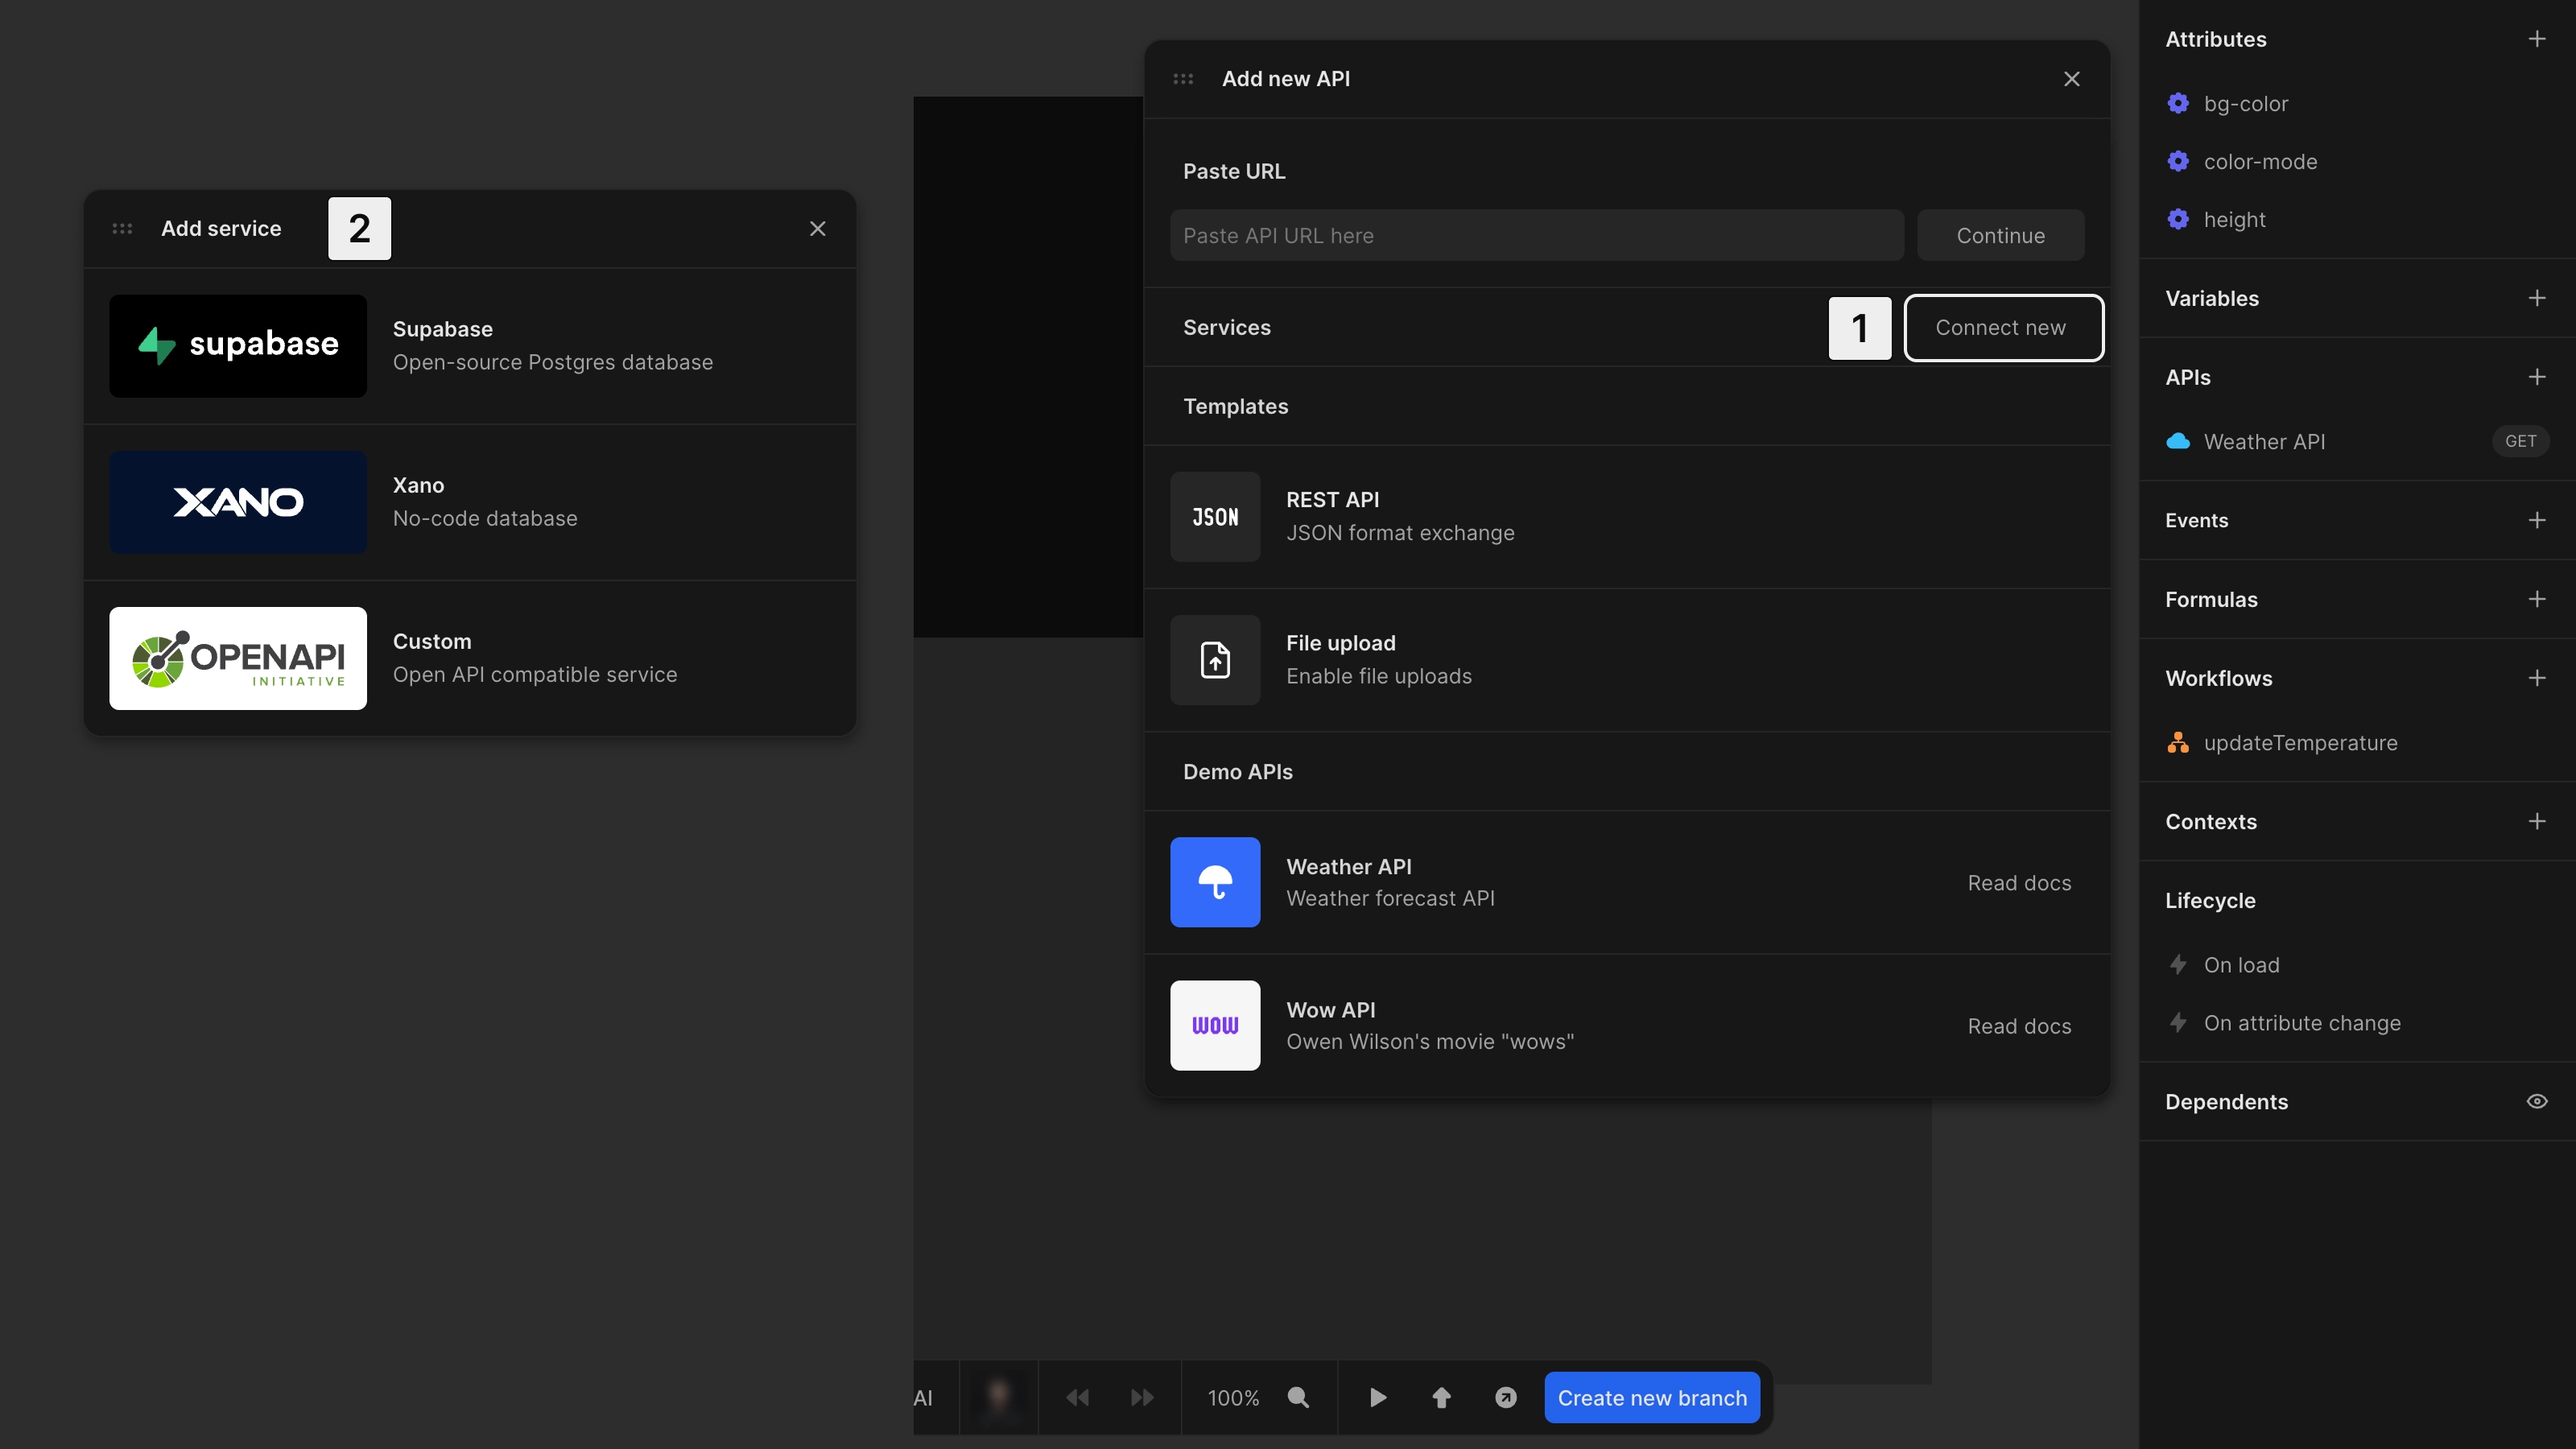
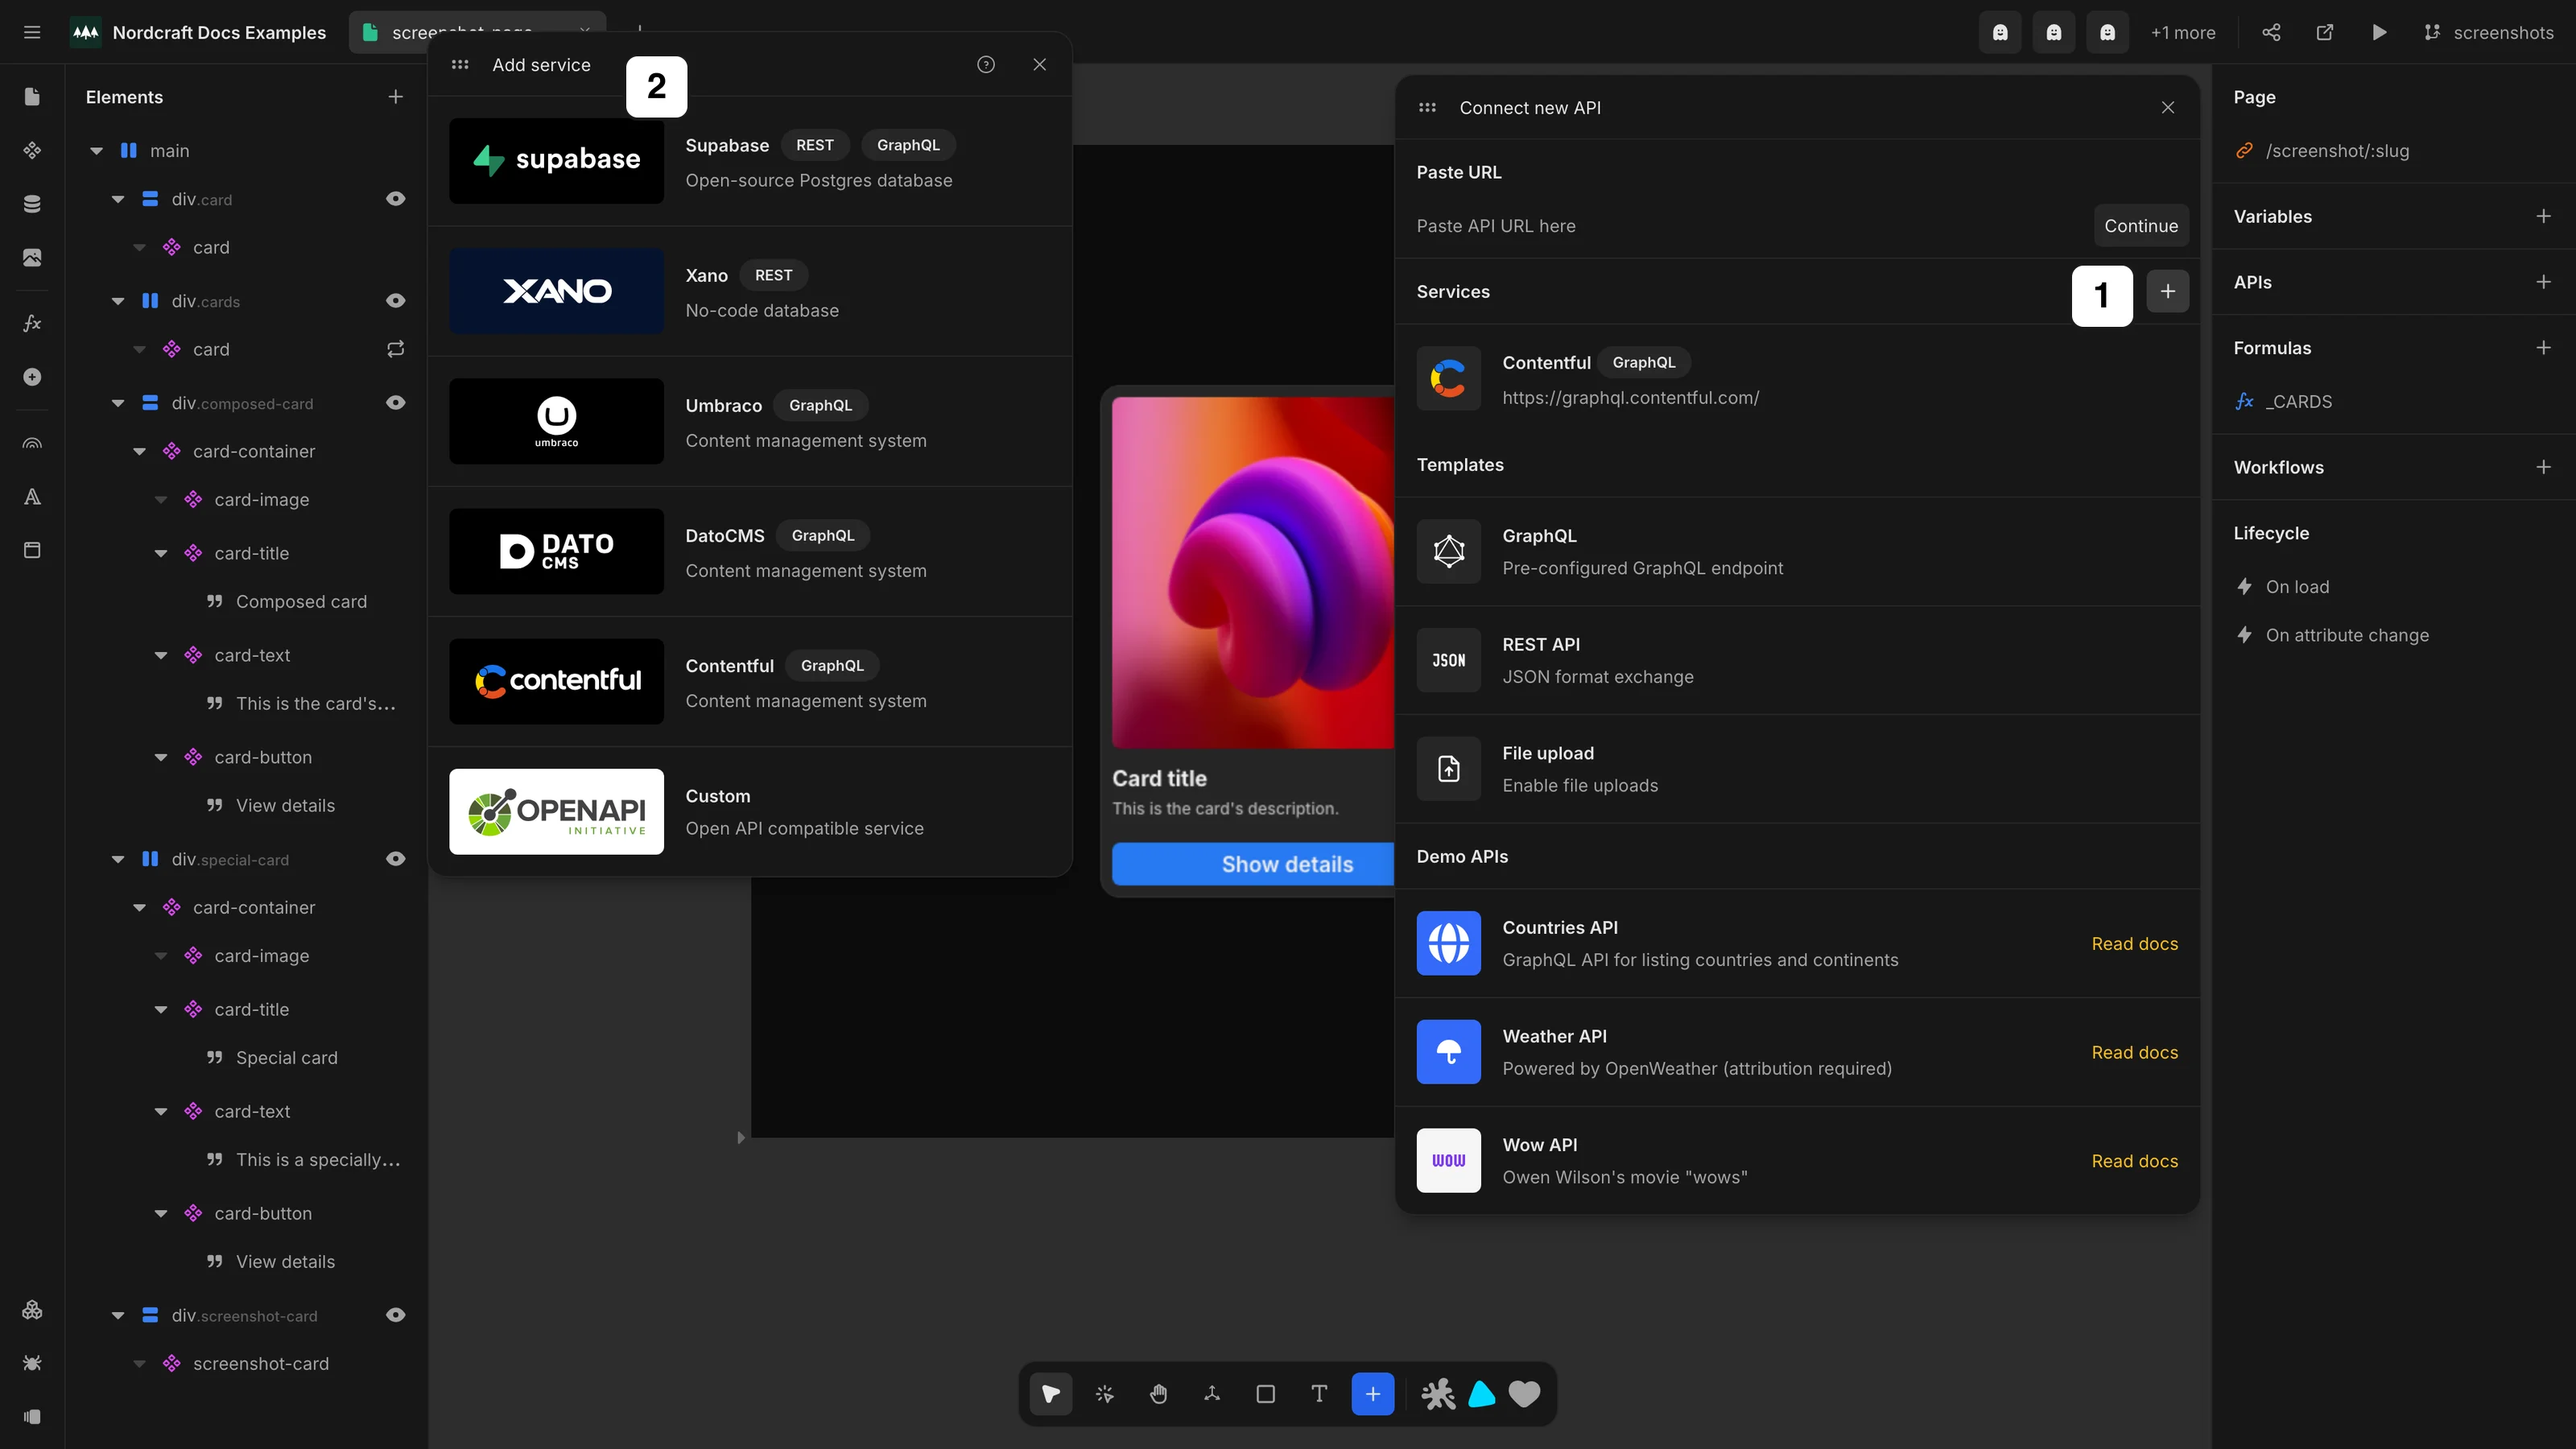
Update contribution guide + add more screenshots

diff --git a/docs/guides/contribution/index.md b/docs/guides/contribution/index.md
@@ -135,6 +135,41 @@ Image requirements:
 - The image title will be used to overlay a title on the image in the UI
 - The image alt text will be added to the `<img>` tag in the resulting markup
 
+### Screenshot tooling
+
+This repository includes automated tools to capture, record, and format screenshots to meet the requirements above:
+
+#### Generating screenshots
+
+Run the screenshot automation script to generate the dual WebP files (standard `800×450` and large `3200×1800`):
+
+```bash
+bun run screenshots                  # Capture all documentation screenshots
+bun run screenshots editor-overview  # Capture only a specific target
+```
+
+#### Recording interactions for new screenshots
+
+To record clicks, dropdown openings, or panel navigation for a new screenshot state, run the interactive recorder:
+
+```bash
+bun run screenshots:record
+bun run screenshots:record create-a-page
+```
+
+This launches a headed Chromium browser with authenticated session mocks pre-applied and opens the **Playwright Inspector** GUI. Click the red **Record** button in the inspector, interact with the editor, and copy the recorded actions into `TARGETS` in `scripts/capture-screenshots.ts`.
+
+#### Processing manual screenshots
+
+If you capture a screenshot manually (for example via Chrome DevTools in 16:9 ratio at DPR 2.0), convert and resize it into the required standard and large WebP versions:
+
+```bash
+bun run screenshots:process path/to/input.png editor-overview
+bun run screenshots:process path/to/input.png docs/the-editor/command-palette/command-palette
+```
+
+If the target specifies annotations (such as numbered badges in `editor-overview`), they are automatically composited onto both output images.
+
 ::: info
 You may see `@@@ image-static` in places. This tag is for Nordcraft brand images that do not expand into the large view. You should only add static images if you need to display images that don't serve as example images that should not be expandable, and do not have an outgoing link.
 

diff --git a/docs/connecting-data/services/index.md b/docs/connecting-data/services/index.md
@@ -22,7 +22,7 @@ You can add services in Nordcraft in two ways.
 
 ### From the API creation flow
 
-![The add new API dialog is open. In the services section, the connect now button is highlighted. To the left of this, another part of the Nordcraft editor has been spliced onto the image, showing three available pre-configured services available to add: Supabase, Xano and OpenAPI.|16/9](add-a-service-from-api-panel.webp 'Add a service from API panel')
+![The add new API dialog is open. In the services section, the connect now button is highlighted. To the left of this, another part of the Nordcraft editor has been spliced onto the image, showing six available pre-configured services available to add: Supabase, Xano and OpenAPI.|16/9](add-a-service-from-api-panel.webp 'Add a service from API panel')
 
 1. When creating a new API, click the [kbd]Connect new[kbd] button
 2. Select the service you want to connect to from the available options

diff --git a/README.md b/README.md
@@ -30,7 +30,7 @@ The order in which sections and pages appear is defined in the [docs/index.json]
 
 ## Contributing
 
-We welcome contributions from our community! If you'd like to contribute to the documentation, please read our [Contribution Guide](/docs/guides/contribution-guide/index.md) for details on our code of conduct, the process for submitting pull requests and an explanation of our documentation structure.
+We welcome contributions from our community! If you'd like to contribute to the documentation, please read our [Contribution Guide](/docs/guides/contribution/index.md) for details on our code of conduct, the process for submitting pull requests, screenshot tooling, and an explanation of our documentation structure.
 
 For quick fixes, you can click the "Edit" button on any documentation page, which will take you directly to the corresponding file in this repository.
 

diff --git a/CONTRIBUTING.md b/CONTRIBUTING.md
@@ -8,7 +8,18 @@ This guide contains all the information you need about:
 
 - formatting requirements
 - content standards
+- screenshot generation and processing tools
 - the contribution workflow process
+
+## Screenshots
+
+We provide built-in scripts to automate screenshot generation and keep images consistent with documentation guidelines:
+
+- `bun run screenshots [target]`: Automatically capture documentation screenshots using Playwright.
+- `bun run screenshots:record [target]`: Open an interactive browser with session mocks to record user clicks for new screenshots.
+- `bun run screenshots:process <input.png> <target>`: Convert and resize external PNG/JPEG captures into standard (`800x450`) and large (`3200x1800`) WebP files with annotations.
+
+See the [Contribution Guide](/docs/guides/contribution/index.md#screenshot-tooling) for full details.
 
 ## List of Contributors
 
